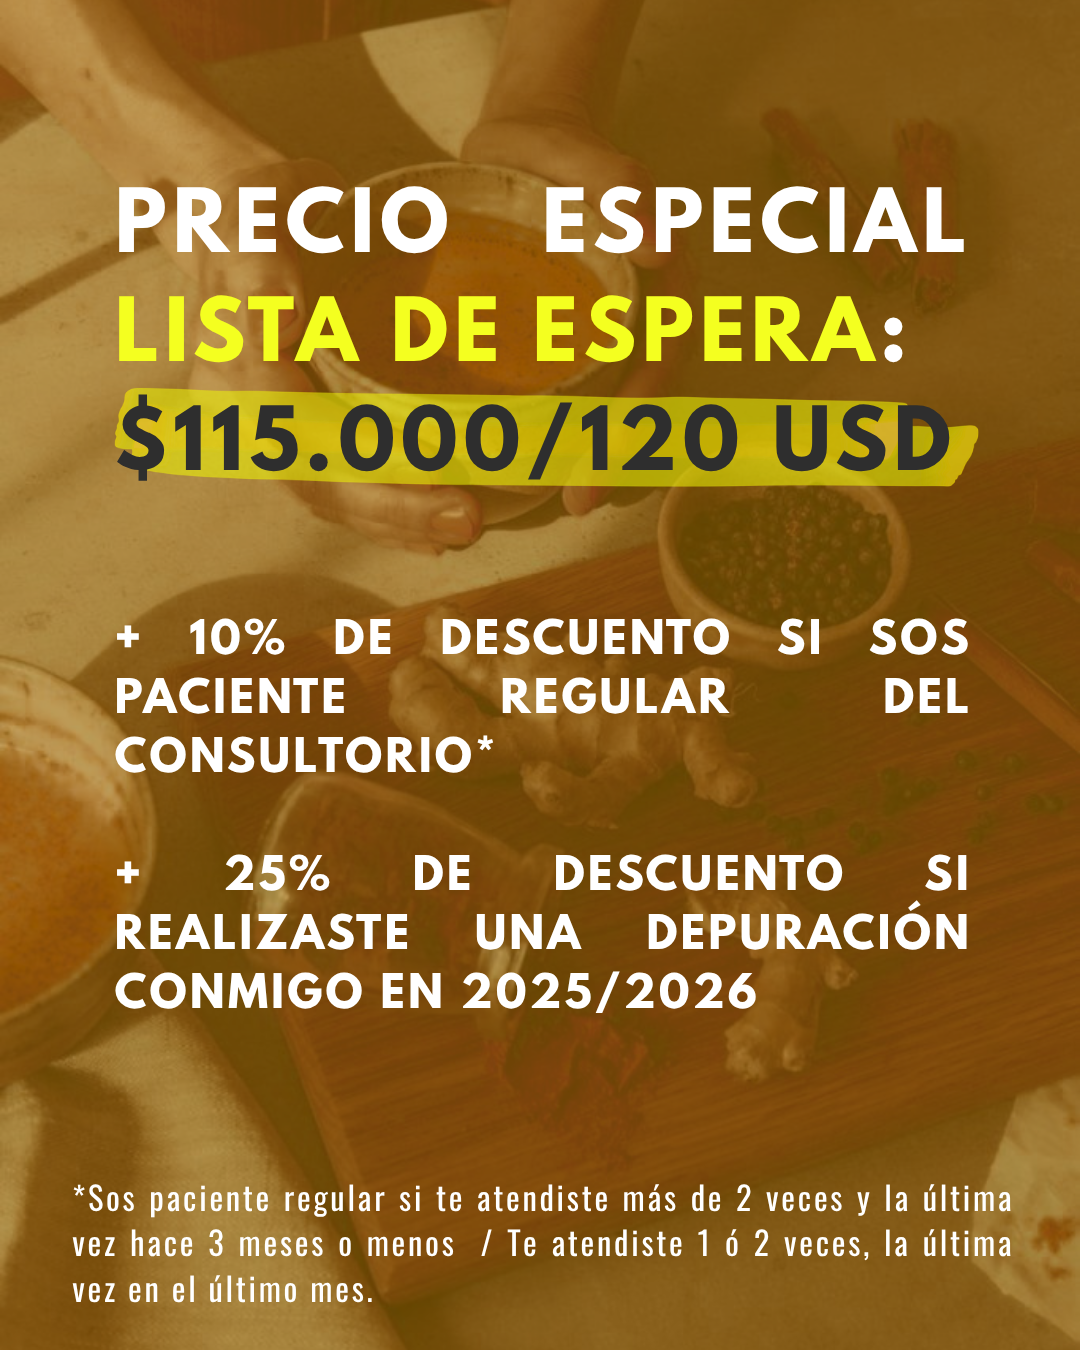
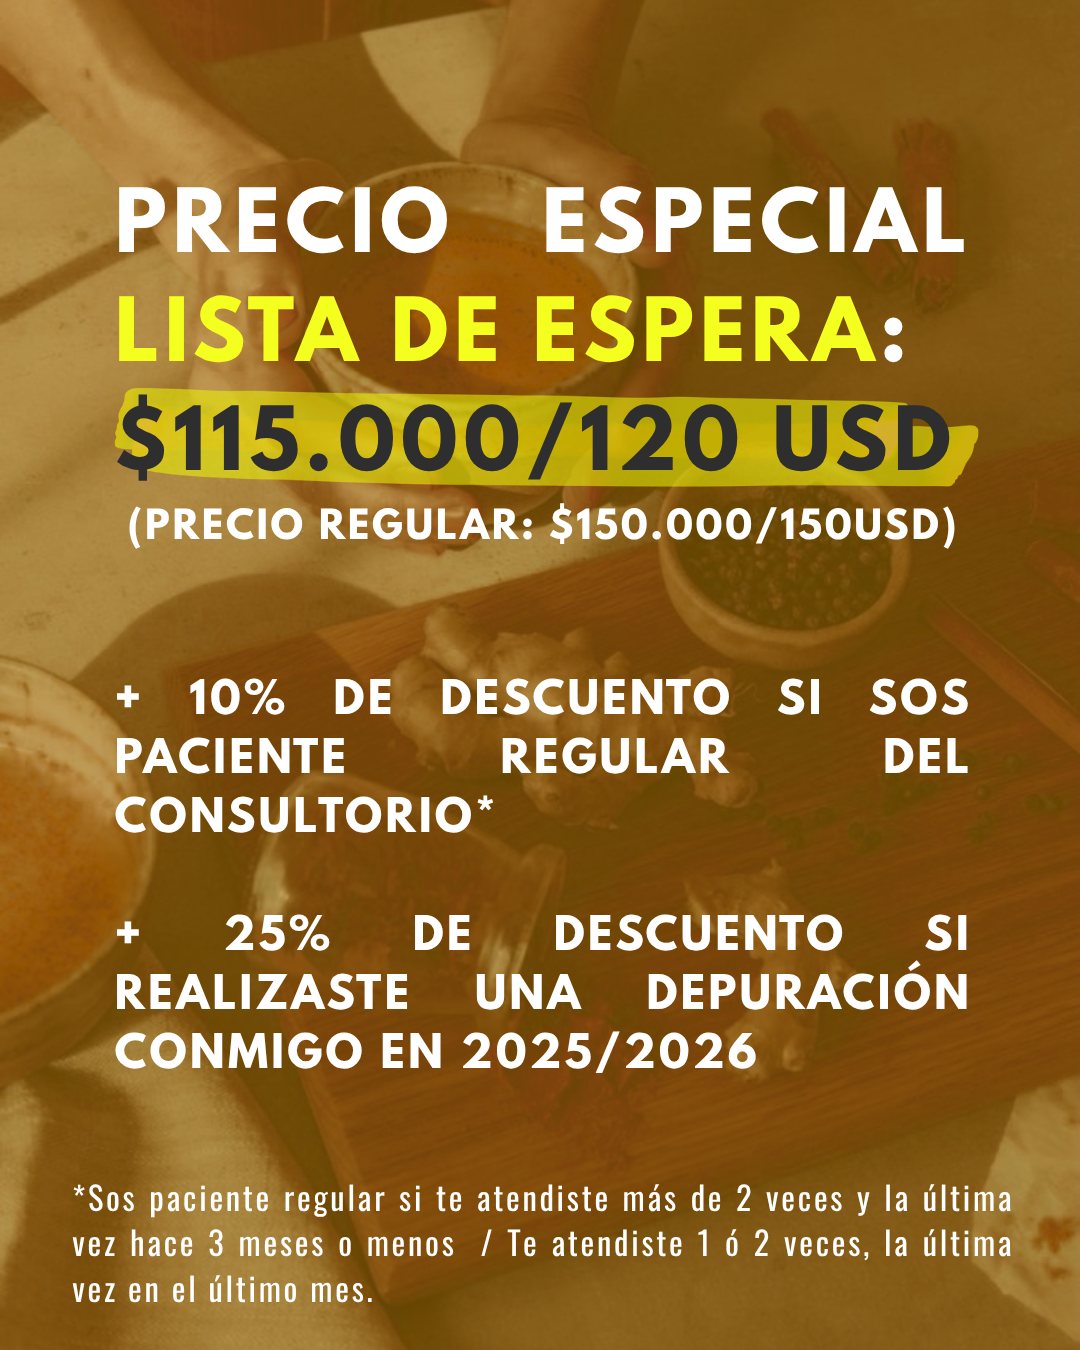
depu2026

diff --git a/depuracion2026.html b/depuracion2026.html
@@ -124,7 +124,7 @@
   }
   .intro-card .num { font-family: 'Cormorant Garamond', serif; font-size: 2.6rem; color: var(--sage-deep); line-height: 1; }
   .intro-card p { font-size: 0.98rem; color: var(--ink-soft); margin-top: 14px; }
-  .intro-card + .intro-card { margin-top: 18px; }
+  .intro-cards-row { display: grid; grid-template-columns: repeat(auto-fit, minmax(240px, 1fr)); gap: 22px; margin-top: 40px; }
 
   /* ---------- Benefits ---------- */
   .benefits-grid { display: grid; grid-template-columns: repeat(auto-fit, minmax(230px, 1fr)); gap: 22px; }
@@ -157,24 +157,54 @@
   .diff-card h3 { font-size: 1.15rem; margin-bottom: 10px; }
   .diff-card p { color: var(--ink-soft); font-size: 0.96rem; }
 
-  /* ---------- Guías (agrandado) ---------- */
+  /* ---------- Side images (side by side with text) ---------- */
+  .side-img { width: 100%; border-radius: 4px; box-shadow: var(--shadow); object-fit: cover; }
+  .section-head-media { display: grid; grid-template-columns: 1.1fr 0.9fr; gap: 44px; align-items: center; margin-bottom: 48px; }
+  .section-head-media .side-img { max-height: 320px; }
+  .diagram-photo { margin-top: 26px; border-radius: 4px; overflow: hidden; box-shadow: var(--shadow); }
+  .diagram-photo img { width: 100%; height: 190px; object-fit: cover; }
+  .diagram-photo figcaption {
+    background: rgba(244,239,233,0.06); color: var(--on-dark-soft);
+    font-size: 0.78rem; padding: 12px 16px;
+  }
+
+  /* ---------- Guías (inline) ---------- */
+  .guides-inline-standalone { display: grid; gap: 20px; max-width: 640px; }
+  .guide-mini { display: flex; align-items: center; gap: 14px; }
+  .guide-mini p { font-size: 0.94rem; color: var(--ink-soft); margin-bottom: 0; }
+  .photo-placeholder-sm {
+    flex-shrink: 0; width: 56px; height: 56px; border-radius: 50%;
+    border: 2px dashed rgba(52,5,66,0.3); background: rgba(52,5,66,0.03);
+    display: flex; align-items: center; justify-content: center; text-align: center;
+    font-family: 'Jost', sans-serif; font-size: 0.55rem; letter-spacing: 0.03em; text-transform: uppercase;
+    color: var(--ink-soft); line-height: 1.3; overflow: hidden;
+  }
+  .photo-placeholder-sm img,
+  .photo-placeholder img {
+    width: 100%; height: 100%; object-fit: cover; display: block;
+  }
+  .guides-grid-single { grid-template-columns: minmax(0, 760px); }
   .guides-section { padding: 128px 0 136px; }
   .guides-section .section-head h2 { font-size: clamp(2.2rem, 4vw, 3rem); }
   .guides-grid { display: grid; grid-template-columns: repeat(auto-fit, minmax(320px, 1fr)); gap: 44px; }
-  .guide-card { background: var(--cream); border-radius: 6px; padding: 40px; box-shadow: var(--shadow); }
+  .guide-card {
+    background: var(--cream); border-radius: 6px; padding: 40px; box-shadow: var(--shadow);
+    display: grid; grid-template-columns: 160px minmax(0, 1fr); gap: 26px; align-items: start;
+  }
   .photo-placeholder {
-    aspect-ratio: 4/5; border-radius: 4px; margin-bottom: 26px;
+    width: 160px; aspect-ratio: 1/1; border-radius: 4px; margin-bottom: 0;
     border: 2px dashed rgba(52,5,66,0.3); background: rgba(52,5,66,0.03);
     display: flex; align-items: center; justify-content: center;
-    font-family: 'Jost', sans-serif; font-size: 0.8rem; letter-spacing: 0.08em; text-transform: uppercase;
-    color: var(--ink-soft); text-align: center; line-height: 1.6;
+    font-family: 'Jost', sans-serif; font-size: 0.75rem; letter-spacing: 0.08em; text-transform: uppercase;
+    color: var(--ink-soft); text-align: center; line-height: 1.6; overflow: hidden;
   }
+  .guide-card-copy { display: flex; flex-direction: column; }
   .guide-card h3 { font-size: 1.5rem; margin-bottom: 8px; }
   .guide-card .role { font-size: 0.8rem; letter-spacing: 0.06em; text-transform: uppercase; color: var(--sage-deep); margin-bottom: 18px; display: block; line-height: 1.5; }
   .guide-card p { color: var(--ink-soft); margin-bottom: 14px; font-size: 0.98rem; }
 
   /* ---------- FAQ (chat bubbles) ---------- */
-  .faq-list { max-width: 640px; display: flex; flex-direction: column; gap: 18px; }
+  .faq-list { max-width: 640px; margin: 0 auto; display: flex; flex-direction: column; gap: 18px; }
   .chat-row { display: flex; }
   .chat-row.q { justify-content: flex-end; }
   .chat-row.a { justify-content: flex-start; }
@@ -189,9 +219,6 @@
     border-radius: 18px 18px 18px 4px;
   }
 
-  /* ---------- Image banner ---------- */
-  .img-banner { width: 100%; max-height: 460px; object-fit: cover; border-radius: 4px; box-shadow: var(--shadow); }
-
   /* ---------- Pricing ---------- */
   .pricing-grid { display: grid; grid-template-columns: minmax(0, 340px); justify-content: start; gap: 18px; margin-bottom: 30px; }
   .pricing-grid img { width: 100%; border-radius: 6px; box-shadow: 0 18px 40px rgba(0,0,0,0.28); }
@@ -200,20 +227,26 @@
   .closing-box {
     background: var(--deep); color: var(--on-dark);
     border-radius: 6px; padding: 56px 48px; box-shadow: var(--shadow);
+    max-width: 980px; margin: 0 auto;
   }
-  .closing-box h2 { color: var(--on-dark); font-size: clamp(1.8rem, 3.4vw, 2.3rem); margin-bottom: 16px; }
-  .closing-box .details { display: grid; gap: 12px; font-size: 0.92rem; color: var(--on-dark-soft); max-width: 640px; margin-bottom: 36px; }
+  .close-layout { display: grid; grid-template-columns: minmax(0, 1.5fr) minmax(220px, 0.9fr); align-items: center; gap: 32px; }
+  .close-copy { display: flex; flex-direction: column; }
+  .closing-box h2 { color: var(--on-dark); font-size: clamp(1.8rem, 3.4vw, 2.3rem); margin: 0 0 16px; }
+  .closing-box .details { display: grid; gap: 12px; font-size: 0.92rem; color: var(--on-dark-soft); margin: 0 0 20px; }
   .closing-box .details strong { color: var(--sage); font-weight: 500; }
-  .closing-cta { display: flex; flex-wrap: wrap; align-items: center; gap: 14px; }
+  .closing-cta { display: flex; flex-wrap: wrap; align-items: center; gap: 14px; margin-top: 0; }
 
   footer { background: #22032c; color: rgba(244,239,233,0.55); padding: 34px 0; text-align: center; font-size: 0.8rem; }
 
   @media (max-width: 860px) {
-    .intro-grid, .process-layout, .guides-grid { grid-template-columns: 1fr; }
+    .intro-grid, .process-layout, .guides-grid, .section-head-media, .close-layout { grid-template-columns: 1fr; }
+    .guide-card { grid-template-columns: 1fr; }
+    .photo-placeholder { width: 100%; max-width: 220px; }
     section { padding: 66px 0; }
     .hero { padding: 70px 0 80px; }
     .bubble { max-width: 92%; }
     .guides-section { padding: 80px 0; }
+    .pricing-grid { max-width: 320px; margin: 0 auto; }
   }
 </style>
 </head>
@@ -234,7 +267,7 @@
       <p class="lead">Programa grupal de 9 días con acompañamiento médico especializado para liberar toxinas, encender tu fuego digestivo y recuperar la claridad física y mental.</p>
       <div class="cta-row">
         <a class="btn btn-sage" href="#inscripcion">Inscribirme a la Depuración</a>
-        <a class="btn btn-outline" href="#proceso">Quiero sumarme</a>
+        <a class="btn btn-outline" href="#proceso">Más información</a>
       </div>
       <div class="meta-row">
         <div>Duración<strong>9 días</strong></div>
@@ -254,33 +287,30 @@
           <p>Nuestra capacidad de absorber nutrientes y vitalidad no depende solo de lo que comemos, sino de cómo lo digerimos. En la medicina Ayurveda, esta potencia transformadora es el <span class="term">Agni</span> (fuego digestivo). Cuando el Agni se debilita por el ritmo diario, el estrés o los excesos, los alimentos no se procesan de manera óptima y el cuerpo genera <span class="term">Ama</span> (toxinas acumuladas en los tejidos).</p>
           <p>Esta depuración de 9 días no busca venderte un producto milagroso desde afuera, sino brindarle a tu cuerpo el ambiente propicio para que tu propia maquinaria metabólica elimine lo que interfiere con tu salud. A través de un plan de alimentación dividido en etapas, rutinas de autocuidado e infusiones claves, reseteamos el sistema de manera amable y guiada.</p>
         </div>
-        <div>
-          <div class="intro-card">
-            <div class="num">Agni</div>
-            <p>El fuego digestivo que transforma lo que comés en nutrición y vitalidad.</p>
-          </div>
-          <div class="intro-card">
-            <div class="num">Ama</div>
-            <p>La toxina que se acumula cuando ese fuego se debilita — el punto de partida de la depuración.</p>
-          </div>
+        <img src="assets/pesadez-toxina.png" alt="Tu sensación de pesadez puede ser producto de toxina (Ama) acumulada" class="side-img" />
+      </div>
+      <div class="intro-cards-row">
+        <div class="intro-card">
+          <div class="num">Agni</div>
+          <p>El fuego digestivo que transforma lo que comés en nutrición y vitalidad.</p>
+        </div>
+        <div class="intro-card">
+          <div class="num">Ama</div>
+          <p>La toxina que se acumula cuando ese fuego se debilita — el punto de partida de la depuración.</p>
         </div>
       </div>
-    </div>
-  </section>
-
-  <!-- Banner -->
-  <section class="section-cream" style="padding-top:0;">
-    <div class="wrap">
-      <img class="img-banner" src="assets/pesadez-toxina.png" alt="Tu sensación de pesadez puede ser producto de toxina (Ama) acumulada" />
     </div>
   </section>
 
   <!-- 3. Beneficios -->
   <section class="section-pale">
     <div class="wrap">
-      <div class="section-head">
-        <p class="eyebrow">Beneficios del programa</p>
-        <h2>Lo que tu cuerpo recupera en 9 días</h2>
+      <div class="section-head-media">
+        <div>
+          <p class="eyebrow">Beneficios del programa</p>
+          <h2>Lo que tu cuerpo recupera en 9 días</h2>
+        </div>
+        <img src="assets/especias.png" alt="Infusiones y especias digestivas" class="side-img" />
       </div>
       <div class="benefits-grid">
         <div class="benefit-card">
@@ -304,13 +334,6 @@
           <p>Pasás por el cuerpo un aprendizaje vivencial que transforma tu intuición celular y tu manera de elegir el alimento en el día a día.</p>
         </div>
       </div>
-    </div>
-  </section>
-
-  <!-- Banner -->
-  <section class="section-cream" style="padding-top:0;">
-    <div class="wrap">
-      <img class="img-banner" src="assets/especias.png" alt="Infusiones y especias digestivas" />
     </div>
   </section>
 
@@ -370,6 +393,10 @@
             <span><i style="background:#5B5472"></i>Depuración</span>
             <span><i style="background:#f4efe9"></i>Incorporación</span>
           </div>
+          <figure class="diagram-photo">
+            <img src="assets/kitchari-1.jpg" alt="Plato de lentejas estilo kitchari" />
+            <figcaption>Kitchari: la monodieta de la Fase 2</figcaption>
+          </figure>
         </div>
         <div class="phase-list">
           <div class="phase-card">
@@ -401,20 +428,16 @@
     </div>
   </section>
 
-  <!-- Banner -->
-  <section class="section-deep" style="padding-top:0;">
-    <div class="wrap">
-      <img class="img-banner" src="assets/kitchari-1.jpg" alt="Plato de lentejas estilo kitchari" />
-    </div>
-  </section>
-
   <!-- 5. Diferencial -->
   <section class="section-cream">
     <div class="wrap">
-      <div class="section-head">
-        <p class="eyebrow">El diferencial</p>
-        <h2>¿Por qué hacer este programa?</h2>
-        <p>Acompañamiento médico e integral. A diferencia de las dietas restrictivas o los retos détox genéricos, este plan combina la sabiduría ancestral del Ayurveda con el criterio de la medicina integrativa.</p>
+      <div class="section-head-media">
+        <div>
+          <p class="eyebrow">El diferencial</p>
+          <h2>¿Por qué hacer este programa?</h2>
+          <p>Acompañamiento médico e integral. A diferencia de las dietas restrictivas o los retos détox genéricos, este plan combina la sabiduría ancestral del Ayurveda con el criterio de la medicina integrativa.</p>
+        </div>
+        <img src="assets/kitchari-2.jpg" alt="Bowl de kitchari con vegetales" class="side-img" />
       </div>
       <div class="diff-grid">
         <div class="diff-card">
@@ -436,10 +459,27 @@
     </div>
   </section>
 
-  <!-- Banner -->
-  <section class="section-pale" style="padding-top:0;">
+  <!-- 6. Guías del proceso -->
+  <section class="section-pale">
     <div class="wrap">
-      <img class="img-banner" src="assets/kitchari-2.jpg" alt="Bowl de kitchari con vegetales" />
+      <div class="section-head">
+        <p class="eyebrow">Quién te acompaña</p>
+        <h2>Guías del proceso</h2>
+      </div>
+      <div class="guides-inline-standalone">
+        <div class="guide-mini">
+          <div class="photo-placeholder-sm">
+            <img src="assets/dani.jpg" alt="Dra. Daniela Gayoso" />
+          </div>
+          <p>Daniela Gayoso — Médica UBA, Medicina Integrativa con orientación Ayurveda, GinecoEcología, Tantra sensible al trauma.</p>
+        </div>
+        <div class="guide-mini">
+          <div class="photo-placeholder-sm">
+            <img src="assets/sincro.jpg" alt="Sincro Aukan Aragón Ledo" />
+          </div>
+          <p>Sincro Aukan Aragón Ledo — Terapeuta corporal, instructor de Vinyasa Yoga, masajista Ayurveda, educadorx Reiki, Registros Akáshicos, Masaje Ritual y Energética Aterrizada.</p>
+        </div>
+      </div>
     </div>
   </section>
 
@@ -467,43 +507,46 @@
   <section class="section-pale" id="inscripcion">
     <div class="wrap">
       <div class="closing-box">
-        <p class="eyebrow" style="color:var(--sage);">Regalate esto</p>
-        <h2>Regalate 9 días para desintoxicar tu cuerpo y pausar la mente</h2>
-        <div class="details">
-          <div><strong>Duración:</strong> 9 días</div>
-          <div><strong>Modalidad:</strong> Online / acompañamiento en grupo</div>
-          <div><strong>Incluye:</strong> guía del programa en PDF, recetario ayurvédico, guía de rutinas e infusiones, y espacio grupal de seguimiento con acompañamiento médico especializado</div>
-        </div>
-        <div class="pricing-grid">
-          <img src="assets/precio-lista-espera.png" alt="Precio especial lista de espera: $115.000 / 120 USD" />
-        </div>
-        <div class="closing-cta">
-          <a class="btn btn-sage" href="https://docs.google.com/forms/d/e/1FAIpQLSd9lvDfE_tsA0e2aG_dc4zLmTXCKk-Pt01F_wl-N9aw2qd84w/viewform" target="_blank">Quiero Inscribirme en la Lista de Espera</a>
-          <a class="btn btn-outline" href="https://dradanigayoso.com.ar" style="color:var(--deep); border-color:rgba(52,5,66,0.3);">Volver al sitio principal</a>
+        <div class="close-layout">
+          <div class="close-copy">
+            <p class="eyebrow" style="color:var(--sage);">Regalate esto</p>
+            <h2>Regalate 9 días para desintoxicar tu cuerpo y pausar la mente</h2>
+            <div class="details">
+              <div><strong>Duración:</strong> 9 días</div>
+              <div><strong>Modalidad:</strong> Online / acompañamiento en grupo</div>
+              <div><strong>Incluye:</strong> guía del programa en PDF, recetario ayurvédico, guía de rutinas e infusiones, y espacio grupal de seguimiento con acompañamiento médico especializado</div>
+            </div>
+            <div class="closing-cta">
+              <a class="btn btn-sage" href="https://docs.google.com/forms/d/e/1FAIpQLSd9lvDfE_tsA0e2aG_dc4zLmTXCKk-Pt01F_wl-N9aw2qd84w/viewform" target="_blank">Quiero Inscribirme en la Lista de Espera</a>
+              <a class="btn btn-outline" href="https://dradanigayoso.com.ar" style="color:var(--deep); border-color:rgba(52,5,66,0.3);">Volver al sitio principal</a>
+            </div>
+          </div>
+          <div class="pricing-grid">
+            <img src="assets/precio-lista-espera.png" alt="Precio especial lista de espera: $115.000 / 120 USD" />
+          </div>
         </div>
       </div>
     </div>
   </section>
 
-  <!-- 9. Quién te acompaña (guías) -->
+  <!-- 9. Quién te acompaña -->
   <section class="section-pale guides-section">
     <div class="wrap">
       <div class="section-head">
         <p class="eyebrow">Quién te acompaña</p>
-        <h2>Guías del proceso</h2>
+        <h2>Dra. Daniela Gayoso</h2>
       </div>
-      <div class="guides-grid">
+      <div class="guides-grid guides-grid-single">
         <div class="guide-card">
-          <div class="photo-placeholder"><span>Foto pendiente<br />Daniela</span></div>
-          <h3>Dra. Daniela Gayoso</h3>
-          <span class="role">Médica UBA · Medicina Integrativa con orientación Ayurveda · GinecoEcología · Tantra sensible al trauma</span>
-          <p>Siento la medicina como un puente entre la ciencia, el respeto por los ritmos de la naturaleza y la sabiduría primal que cada cuerpo habita. Acompaño a las personas a reconectar con su propia capacidad de sanación, entendiendo la salud no como la ausencia de síntomas, sino como un estado de equilibrio dinámico entre cuerpo, mente y espíritu.</p>
-          <p>A través de estos espacios depurativos grupales, te guío paso a paso para que experimentes la transformación desde la observación y el registro amoroso de tu propia biología.</p>
-        </div>
-        <div class="guide-card">
-          <div class="photo-placeholder"><span>Foto pendiente<br />Sincro</span></div>
-          <h3>Sincro Aukan Aragón Ledo</h3>
-          <span class="role">Terapeuta corporal · Instructor de Vinyasa Yoga · Masajista Ayurveda · Educadorx Reiki, Registros Akáshicos, Masaje Ritual y Energética Aterrizada</span>
+          <div class="photo-placeholder">
+            <img src="assets/dani.jpg" alt="Dra. Daniela Gayoso" />
+          </div>
+          <div class="guide-card-copy">
+            <h3>Dra. Daniela Gayoso</h3>
+            <span class="role">Médica UBA · Medicina Integrativa con orientación Ayurveda · GinecoEcología · Tantra sensible al trauma</span>
+            <p>Siento la medicina como un puente entre la ciencia, el respeto por los ritmos de la naturaleza y la sabiduría primal que cada cuerpo habita. Acompaño a las personas a reconectar con su propia capacidad de sanación, entendiendo la salud no como la ausencia de síntomas, sino como un estado de equilibrio dinámico entre cuerpo, mente y espíritu.</p>
+            <p>A través de estos espacios depurativos grupales, te guío paso a paso para que experimentes la transformación desde la observación y el registro amoroso de tu propia biología.</p>
+          </div>
         </div>
       </div>
     </div>
